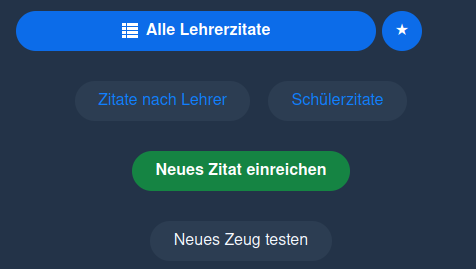
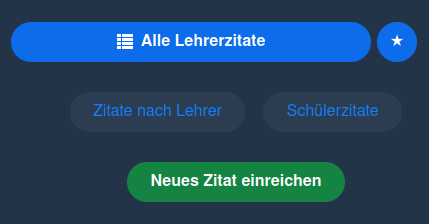
help dialog visual improvements, possibly very minor StartView optimization

diff --git a/src/main/java/com/abi/quotes/views/start/StartView.java b/src/main/java/com/abi/quotes/views/start/StartView.java
@@ -174,19 +174,27 @@ public class StartView extends VerticalLayout implements HasHelp {
         newQuoteButton.getStyle().set("font-weight", "bold");
         newQuoteButton.setQuoteCreationListener(() -> list.update());
         
-        Button nutzerverwaltungButton = createNavigationButton("Nutzerverwaltung", UsersView.class);
-        nutzerverwaltungButton.addThemeVariants(ButtonVariant.LUMO_CONTRAST);
-        
-        Button testsButton = createNavigationButton("Neues Zeug testen", PushTestView.class);
-        testsButton.addThemeVariants(ButtonVariant.LUMO_CONTRAST);
+        Button nutzerverwaltungButton;
+
+		Button testsButton;
+
 
         VerticalLayout buttonsLayout = new VerticalLayout(firstRow, new HorizontalLayout(zitateNachLehrerButton, schuelerZitateButton), newQuoteButton);
         buttonsLayout.setDefaultHorizontalComponentAlignment(Alignment.CENTER);
-        
-        if (DataManager.isAdmin())
-        	buttonsLayout.add(nutzerverwaltungButton);
-        if (DataManager.canTest())
-        	buttonsLayout.add(testsButton);
+
+
+        if (DataManager.isAdmin()) {
+			nutzerverwaltungButton = createNavigationButton("Nutzerverwaltung", UsersView.class);
+			nutzerverwaltungButton.addThemeVariants(ButtonVariant.LUMO_CONTRAST);
+			buttonsLayout.add(nutzerverwaltungButton);
+		}
+        if (DataManager.canTest()) {
+			testsButton = createNavigationButton("Neues Zeug testen", PushTestView.class);
+			testsButton.addThemeVariants(ButtonVariant.LUMO_CONTRAST);
+			buttonsLayout.add(testsButton);
+		}
+
+
         buttonsLayout.setSpacing(true);
         buttonsLayout.getStyle().set("margin-top", "20px");
 
@@ -269,7 +277,7 @@ public class StartView extends VerticalLayout implements HasHelp {
 		comp2.setPadding(false);
 		Image img0 = new Image(darkMode ? "images/help0-dark.png" : "images/help0.png", "Start-Bildschirm");
 		img0.setWidth("90%");
-		img0.setMaxWidth("570px");
+		img0.setMaxWidth("480px");
 		comp2.add(img0);
 		comp2.add(new Html("<p>Auf dem Startbildschirm hast du neben einer Schnellansicht für die neuesten 3 Zitate direkt die Möglichkeit, "
 				+ "verschiedene Knöpfe zu betätigen.</p>"));
@@ -290,12 +298,12 @@ public class StartView extends VerticalLayout implements HasHelp {
 		comp3Inner.setHeight("100%");
 		comp3Inner.setPadding(false);
 		Image img1 = new Image(darkMode ? "images/help1-dark.png" : "images/help1.png", "Drei-Punkte-Menü");
-		img1.setWidth("90%");
-		img1.setMaxWidth("210px");
-		img1.setHeight("90%");
+		img1.setWidth("60%");
+		img1.setMaxWidth("240px");
+		img1.setHeight("80%");
 		comp3Inner.add(img1);
 		comp3.add(comp3Inner);
-		comp3Inner.add(new Html("<p>Klickst du von irgendeiner Seite auf die drei Punkte in der unteren rechten Bildschirmecke, öffnet sich ein "
+		comp3.add(new Html("<p>Klickst du von irgendeiner Seite auf die drei Punkte in der unteren rechten Bildschirmecke, öffnet sich ein "
 				+ "kleines Menü.</p>"));
 		comp3.add(new Html("<p>Hier kannst du dich abmelden (Du wirst beim nächsten Besuch mit dem selben Gerät automatisch wieder eingeloggt.), "
 				+ "zwischen Dark Mode und Light Mode wechseln, diese Hilfe jederzeit wieder öffnen oder auf dein Profil zugreifen. Am besten "

diff --git a/src/main/java/components/HasHelp.java b/src/main/java/components/HasHelp.java
@@ -31,8 +31,9 @@ public interface HasHelp {
         dialog.getHeader().add(closeButton);
 
         dialog.setWidth("90%");
-        dialog.setMaxWidth("700px");
-        dialog.setHeight("50%");
+        dialog.setMaxWidth("1000px");
+        dialog.setHeight("80%");
+        dialog.setMaxHeight("1500px");
         dialog.setModal(false);
         dialog.setVisible(true);
         dialog.setCloseOnOutsideClick(false);
